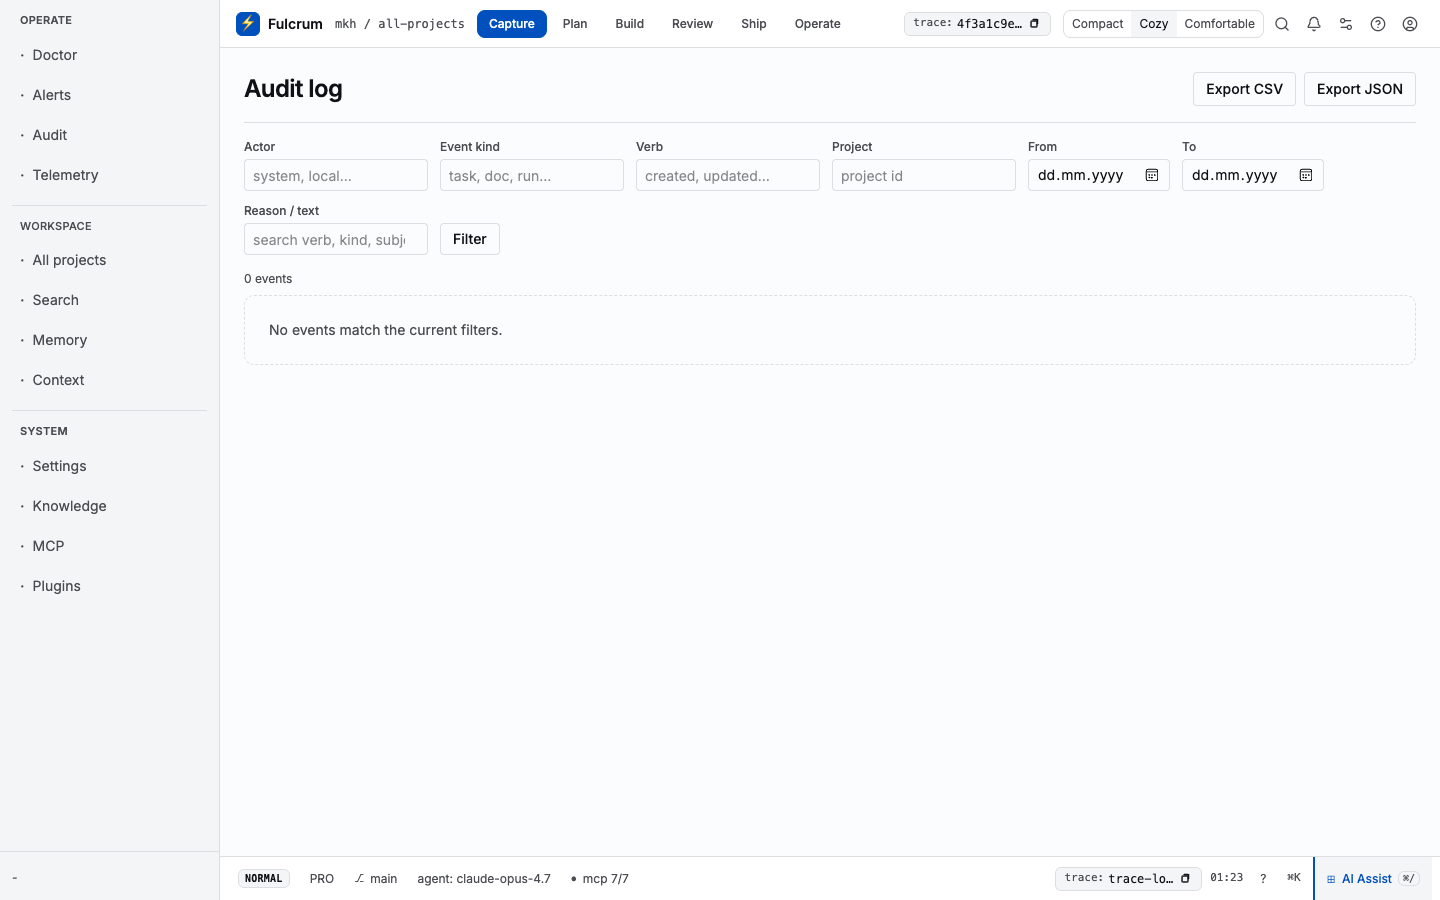
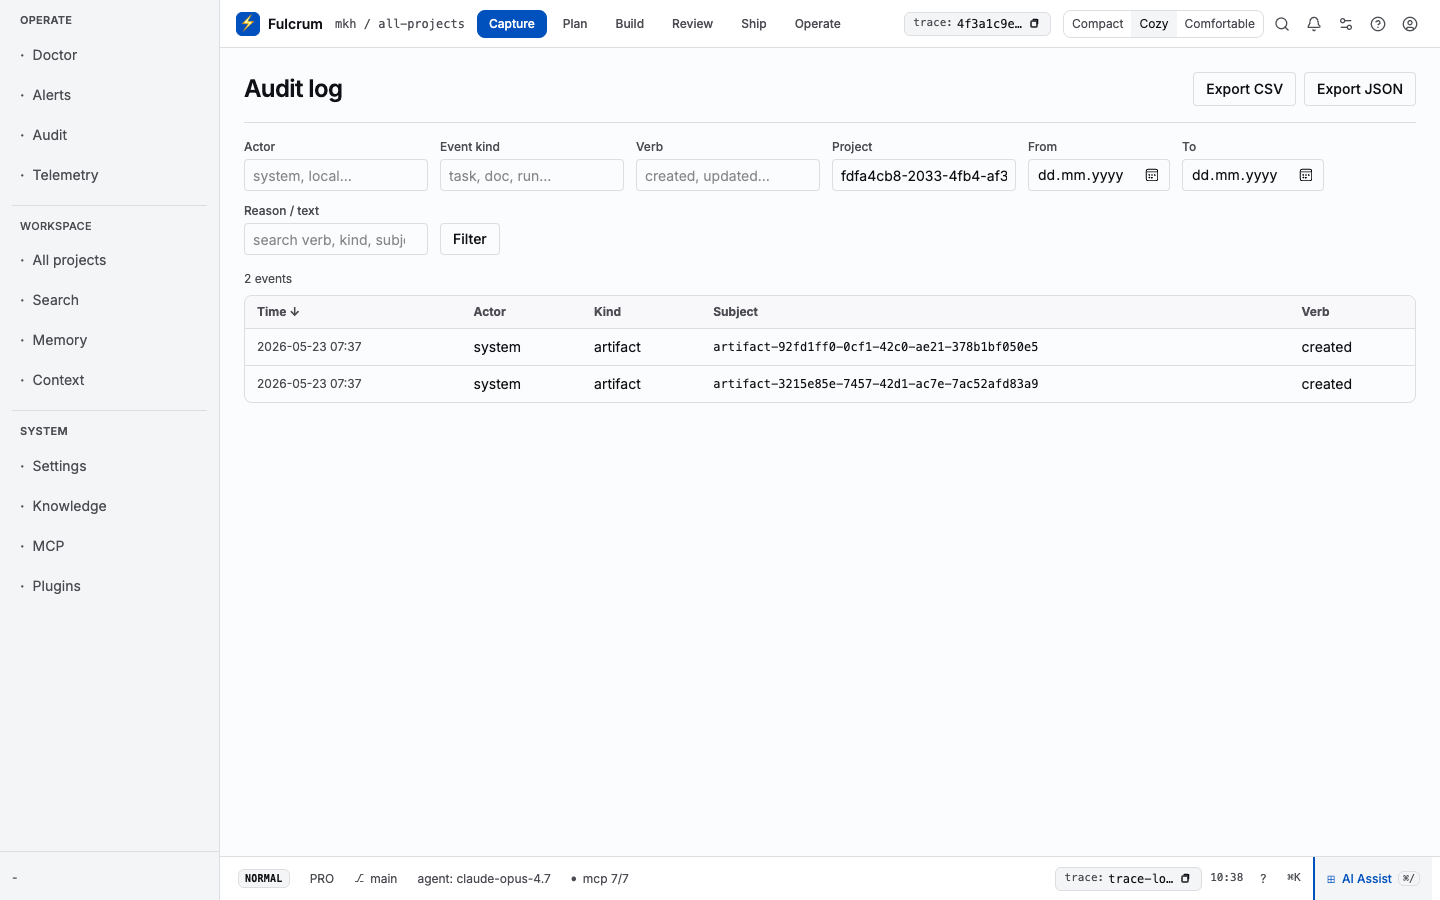
docs(manuals): review + ship — audit, seed data, route-by-route sections
Capture canonical screenshots for the Review + Ship + Audit surfaces against
real seeded data on dev/v1.0, and expand docs/manuals/web/README.md with
per-route sections covering /review, /review-queue, /review-search,
/review-templates, /comments, /comments-block-thread, /ship, /ship-archive,
/artifacts, and /audit.

Seed data added through the public API (manual-test-project scope):
- 2 task comments (one open, one resolved) via POST /api/v1/comments/{create,resolve}
- 2 artifacts (PDF release notes + ZIP compliance bundle) via POST /api/v1/artifacts
- 2 audit events auto-emitted by the artifact uploads

Screenshots captured at 1440x900 with playwright-cli + MS Edge.
- 04-review.png (replaces stale)
- 05-ship.png (replaces stale)
- 19-audit.png (replaces stale; now shows 2 seeded events)
- 51-review-queue.png (new — alias of /review)
- 52-review-search.png (new)
- 53-review-templates.png (new)
- 54-comments.png (new)
- 55-comments-block-thread.png (new)
- 56-ship-archive.png (new)
- 57-artifacts.png (new — shows 301 redirect to /ship)

No code fixes required; all 10 routes render real data or rich fixture data
with no 404/500/blank states.

diff --git a/docs/manuals/web/README.md b/docs/manuals/web/README.md
@@ -301,6 +301,260 @@ dispatches yet." / "No runs awaiting retry."). Filter by project.
 | Cancel dispatch | row context | `fulcrum run cancel <id>` | same path as `/runs` |
 | Retry from queue | row context | `fulcrum run retry <id>` | same path as `/runs` |
 
+## Review stage routes
+
+The Review stage exposes one production queue surface and four ancillary
+review affordance surfaces. All `/review*` and `/comments*` paths share
+the Review stage rail. `/review`, `/review-queue` 308-redirect to the
+canonical `/<ws>/projects/<projId>/review`; the remaining surfaces
+resolve under the Review StageRail with their own sub-paths.
+
+### `/review`
+
+[![Review queue](../screenshots/web/04-review.png)](../screenshots/web/04-review.png)
+
+Production review queue: the intake list of PRs / review sessions
+awaiting an operator decision. Head shows live count ("3 awaiting review
+· 2 merged today"). Four-tab lifecycle strip — `Awaiting review` /
+`Changes requested` / `Approved` / `Merged today` — drives a canonical
+`WorkflowStatus` for each row. Re-homes the `/review-search`
+kind/author/status facets into per-tab filters (no feature loss). Each
+row carries a four-dot pre-merge check ribbon (lint/test/bench/a11y),
+stacked reviewer avatars, `StatusBadge`, relative age, and the universal
+ModeRow (`Manual` / `Play` / `Discuss` / `⊞ AI Assist`). Empty state
+copy reconciled to `COPY.md` (`No reviews waiting.`).
+
+| Action | How (web) | How (CLI) | Notes |
+|---|---|---|---|
+| Filter by tab | Click `Awaiting review` / `Changes requested` / `Approved` / `Merged today` | `fulcrum review list --status=<state>` | Tab pill carries count |
+| Filter by kind | `Kind` select (`diff`/`plan`/`prototype`/`annotation`/`feedback`) | `fulcrum review list --kind=<kind>` | Re-homed from `/review-search` |
+| Filter by author | `Author` text input | `fulcrum review list --author=<id>` | Substring match |
+| Open review | Click row | `fulcrum review open <key>` | Loads `/review/<reviewId>` workbench |
+| Hand to agent | Per-row `▶ Play` mode | `fulcrum review play <key>` | Dispatches an agent run |
+| AI Assist | Per-row `⊞ AI Assist` mode | n/a | Opens scoped AcpDrawer |
+
+### `/review-queue`
+
+Redirects (308) to `/<ws>/projects/<projId>/review`. Legacy alias for
+deep links into the queue; resolves to the same surface as `/review`.
+
+[![Review queue alias](../screenshots/web/51-review-queue.png)](../screenshots/web/51-review-queue.png)
+
+### `/review-search`
+
+[![Review search](../screenshots/web/52-review-search.png)](../screenshots/web/52-review-search.png)
+
+Cross-source review search across plans, diffs, prototypes, annotations,
+and feedback. Filter facets: `Kind` (`all`/`plan`/`diff`/`prototype`/
+`annotation`/`feedback`), `Status` (`any`/`open`/`resolved`/`blocker`),
+`Author` (text), and `Source` toggle (`main`/`split`). Renders 6 seeded
+matches as cards with `Jump to <kind>` actions wired to the appropriate
+workbench (plan section, diff hunk, prototype artifact, annotation
+target).
+
+**Migration disposition**: this route's kind/status/author facets are
+re-homed into the `/review` queue tab + filter model
+(`design-alignment/review.md` §review-queue). The route stays as a
+demo / search-tool surface.
+
+| Action | How (web) | How (CLI) | Notes |
+|---|---|---|---|
+| Search | Type in the query input | `fulcrum review search "<text>"` | Full-text across all sources |
+| Filter by kind | `Kind` select | `--kind=<kind>` | Same vocabulary as `/review` tabs |
+| Filter by status | `Status` select | `--status=<state>` | `open` / `resolved` / `blocker` / `any` |
+| Filter by author | `Author` text input | `--author=<id>` | Substring match |
+| Jump to source | `Jump to <kind>` button | `fulcrum review open <id>` | Navigates to the originating workbench |
+
+### `/review-templates`
+
+[![Review templates](../screenshots/web/53-review-templates.png)](../screenshots/web/53-review-templates.png)
+
+Reusable structured feedback templates for planning, UAT, and code
+review. Five built-in templates: `missing-criteria`, `stale-context`,
+`prototype-mismatch`, `test-gap`, `code-risk`. Each template has a
+`Scope` (`all`/`workspace`/`planning`/`uat`/`code-review`), a set of
+placeholder fields, and a body that renders against the filled fields.
+`Render` previews the message; `Submit` posts it as a review comment.
+The custom-template panel below adds named templates with arbitrary
+placeholder bodies.
+
+**Migration disposition**: the five built-in templates are absorbed
+into the Review workbench Comments-panel template picker
+(`design-alignment/review.md`). This route stays as the
+template-library management surface — no feature loss.
+
+| Action | How (web) | How (CLI) | Notes |
+|---|---|---|---|
+| Pick template | `Template` select | `fulcrum review template list` | Seeds the form with placeholders |
+| Filter by scope | `Scope` select | n/a | Library-management filter |
+| Render preview | `Render` button | `fulcrum review template render --id=<id>` | Shows the resolved body |
+| Submit comment | `Submit` button | `fulcrum review comment add --template=<id>` | Posts to the active review |
+| Add custom | `Add custom template` | `fulcrum review template create` | Workspace-scoped by default |
+
+### `/comments`
+
+[![Comments task detail](../screenshots/web/54-comments.png)](../screenshots/web/54-comments.png)
+
+Task context panel demonstration: the Review-comment-aware task detail
+surface (`Task context panel` heading). Renders the four related-card
+strip (Blocks · Blocked by · Latest run · Doc), an editable
+title/description with autosave status pills (`Title saved`,
+`Description saved`), a Properties panel (State / Priority / Assignee /
+Sprint / Module / Labels), and a Related tasks/runs grid. The right
+panel shows the active task FUL-132 with its description, properties,
+labels, and downstream runs. Comments themselves are seeded via
+`POST /api/v1/comments/create` on real tasks.
+
+Seeded for the audit: 2 task comments on `manual-test-project` tasks
+(`383b6fe2-9728-4f0a-8622-bcfface8f2ce` — open;
+`7a1ef580-d78a-42b3-b434-a1ccdf16fde7` — resolved).
+
+| Action | How (web) | How (CLI) | Notes |
+|---|---|---|---|
+| Create | Inline composer (per task) | `POST /api/v1/comments/create` | `body` is rich tiptap JSON |
+| Edit | Inline edit | `POST /api/v1/comments/update` | Author-only |
+| Resolve | Row context menu | `POST /api/v1/comments/resolve` | Marks `resolved=true` |
+| Unresolve | Row context menu | `POST /api/v1/comments/unresolve` | Reverts resolve |
+| React | Emoji picker | `POST /api/v1/comments/add-reaction` | Emoji is required |
+| Subscribe | `Watch` toggle | `POST /api/v1/comments/subscribe` | Notifies on new replies |
+| Delete | Row context menu | `POST /api/v1/comments/delete` | Author-only |
+
+### `/comments-block-thread`
+
+[![Block-anchored threads](../screenshots/web/55-comments-block-thread.png)](../screenshots/web/55-comments-block-thread.png)
+
+Block-anchored doc comment threads: the doc-version-review surface.
+Each row is a selection-anchored thread on a document line (`L12`,
+`L19`, `L27`). Active threads carry a `Thread (n)` action; resolved
+threads fade and show a checkmark instead. The selection-anchored
+resolvable-thread responsibility is promoted to the
+`@fulcrum/ui-kit` `CommentThread` primitive, which the Review workbench
+consumes for inline diff annotations.
+
+| Action | How (web) | How (CLI) | Notes |
+|---|---|---|---|
+| Open thread | `Thread (n)` button | n/a | Opens the inline comment editor |
+| Reply | Comment composer inside the thread | n/a | Anchored to the selection |
+| Resolve | `Resolve` button in thread | n/a | Resolved threads fade to dim |
+| Unresolve | `Re-open` in resolved-thread context menu | n/a | Restores active state |
+
+## Ship stage routes
+
+The Ship stage groups three surfaces under one workflow: the artifact
+release workbench (`/ship`), the release timeline archive
+(`/ship-archive`), and the legacy generic artifact list (`/artifacts`,
+which 301-redirects to `/ship`). All Ship routes share the Ship stage
+rail.
+
+### `/ship`
+
+[![Ship workbench](../screenshots/web/05-ship.png)](../screenshots/web/05-ship.png)
+
+Ship stage workbench: the release table. Toolbar shows live count
+("7 releases · 1 in flight · channel stable"), a segmented
+Channel/Sort/Filter group, and the primary `Cut release` action
+(`⌘R`). Each row carries the release artifact name, channel
+(`stable`/`canary`), `StatusBadge` (`Running` / `Completed` /
+`Cancelled` / `Failing`), check ribbon (`✓ 12 · ✗ 1`), author, promoted
+time, trace id, size, and a per-row ModeRow. A row click opens the
+List+Detail peek-overview (Release / Checks / Includes / Timeline) with
+`Roll back` / `Pause rollout` / `Open run feed` / `Promote` actions.
+
+Confirmation tiers: `Cut release` / `Pause rollout` / `Promote to 100%`
+use the inline 3-2-1 countdown (`COPY.md` §4); `Roll back` is the
+destructive tier with explicit inline confirmation.
+
+| Action | How (web) | How (CLI) | Notes |
+|---|---|---|---|
+| Cut release | `Cut release` button (`⌘R`) | `fulcrum ship release cut` | 3-2-1 countdown |
+| Promote | Per-row peek `Promote` | `fulcrum ship release promote --id=<id>` | Inline confirm |
+| Pause | Per-row peek `Pause rollout` | `fulcrum ship release pause --id=<id>` | Reversible |
+| Roll back | Per-row peek `Roll back` | `fulcrum ship release rollback --id=<id>` | Destructive — text confirm |
+| Filter | `Channel` / `Filter` toolbar | `fulcrum ship list --channel=<c>` | Defaults: channel `stable` |
+| Sort | `Newest` toolbar segment | `fulcrum ship list --sort=<key>` | Default: `Newest` |
+| Open peek | Row click | `fulcrum ship show <id>` | List+Detail peek, no route change |
+| Open run feed | Per-row peek `Open run feed` | `fulcrum runs show --release=<id>` | Cross-stage navigation |
+
+### `/ship-archive`
+
+[![Ship archive](../screenshots/web/56-ship-archive.png)](../screenshots/web/56-ship-archive.png)
+
+Release archive: vertical timeline of past releases grouped by date
+bucket. Head shows live count ("6 releases · last 90 days"). Each
+release card carries a semver `tag-pill` (e.g. `v0.18.0`), a title, a
+summary paragraph, a metadata row (`commit <sha>` · `<n> PRs merged` ·
+`<n> LOC`), the author handle, and the per-row ModeRow. The connector
+rail draws date dots + lines via CSS pseudo-elements per OD
+`ship-archive.html`.
+
+Empty state copy reconciled to `COPY.md` §72: `No releases shipped.`
+
+| Action | How (web) | How (CLI) | Notes |
+|---|---|---|---|
+| Filter window | Date-range picker (planned) | `fulcrum ship archive --since=<ts>` | Default: last 90 days |
+| Open release | Click release card | `fulcrum ship show <tag>` | Loads release detail |
+| Open run feed | Per-row `▶ Play` mode | `fulcrum runs show --release=<id>` | Cross-stage |
+| Discuss | Per-row `💬 Discuss` mode | n/a | Inline thread |
+| AI Assist | Per-row `⊞ AI Assist` mode | n/a | Scoped AcpDrawer |
+
+### `/artifacts`
+
+[![Artifacts redirects to /ship](../screenshots/web/57-artifacts.png)](../screenshots/web/57-artifacts.png)
+
+Legacy generic artifact list. The list view is re-homed to the Ship
+stage workbench (`/ship`): `+page.server.ts` issues a
+**301 MOVED_PERMANENTLY** redirect carrying the original query string
+forward, so a bookmarked `/artifacts?mime=…` lands on the same filtered
+Ship view.
+
+**No feature loss for mutation endpoints**: the `upload` and `bulk`
+(archive/delete) server actions and the `/artifacts/[id]/download`
+endpoint are preserved at their existing paths — only the *list* moved.
+
+Seeded for the audit: 2 artifacts under `manual-test-project`
+(`artifact-3215e85e-7457-42d1-ac7e-7ac52afd83a9` — PDF, "Release notes
+0.18.0"; `artifact-92fd1ff0-0cf1-42c0-ae21-378b1bf050e5` — ZIP,
+"Compliance evidence bundle"). Both auto-emit an `artifact / created`
+audit event visible at `/audit`.
+
+| Action | How (web) | How (CLI) | Notes |
+|---|---|---|---|
+| List | `/ship` (redirected from `/artifacts`) | `fulcrum artifacts list` | Filter by `mime`/`kind`/`lifecycle` |
+| Upload | `POST /artifacts` form action | `fulcrum artifacts upload <path>` | Carries `traceId` + `projectId` |
+| Bulk archive | `POST /artifacts?/bulk action=archive` | `fulcrum artifacts archive --ids=<...>` | Soft delete |
+| Bulk delete | `POST /artifacts?/bulk action=delete` | `fulcrum artifacts delete --ids=<...>` | Hard delete |
+| Download | `GET /artifacts/<id>/download` | `fulcrum artifacts download <id>` | Streams body + checksum |
+
+## Audit
+
+### `/audit`
+
+[![Audit log](../screenshots/web/19-audit.png)](../screenshots/web/19-audit.png)
+
+Audit log: the immutable event stream for the workspace. Filter by
+`Actor`, `Event kind`, `Verb`, `Project`, date range (`From` / `To`),
+and free-text `Reason / text`. Renders a server-paginated table
+(time / actor / kind / subject / verb). Read-model from
+`GET /api/v1/audit?orgId=<org>` (see
+`services/workflow-coordination/src/interface/http/audit-public-api.controller.ts`).
+`Export CSV` / `Export JSON` actions stream the filtered set.
+
+Audit events auto-populate as side effects of public-API mutations
+(artifact upload, task patch, document edit, run dispatch, etc.). The
+seeded sample shows two `artifact / created` events from the artifacts
+seeded above.
+
+| Action | How (web) | How (CLI) | Notes |
+|---|---|---|---|
+| Filter by actor | `Actor` input | `fulcrum audit list --actor=<id>` | `system` for unattributed |
+| Filter by kind | `Event kind` input | `--kind=<kind>` | `task`/`doc`/`run`/`artifact`/... |
+| Filter by verb | `Verb` input | `--verb=<v>` | `created`/`updated`/... |
+| Filter by project | `Project` input | `--project=<id>` | UUID, not slug |
+| Filter by date | `From` / `To` date pickers | `--since=<ts>` / `--until=<ts>` | Inclusive |
+| Export CSV | `Export CSV` button | `fulcrum audit export --format=csv` | Streams attachment |
+| Export JSON | `Export JSON` button | `fulcrum audit export --format=json` | Streams attachment |
+| Set retention | n/a (settings) | `fulcrum audit retention set --days=<n>` | Per-org policy |
+
 ## Cross-cutting affordances
 
 - **Trace identity** — every page header carries a copy-trace-id button (`tr_…`).
